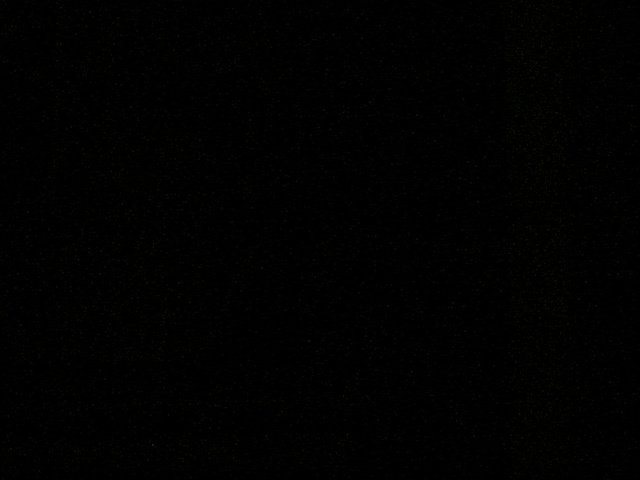
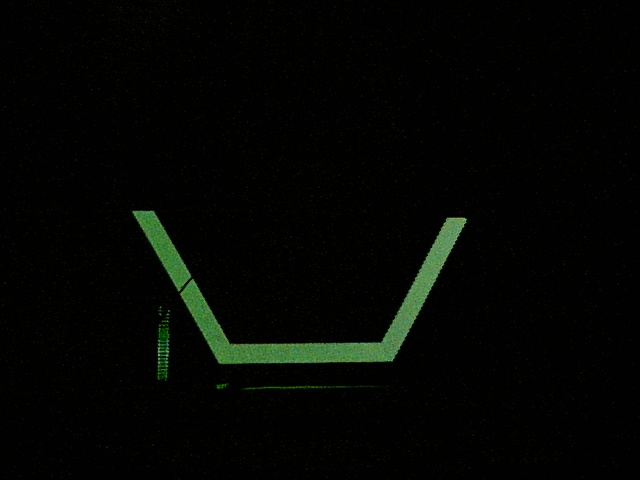
did more cleaning, began using networktables

Changed region(s): [[0.1875, 0.4375, 0.75, 0.8125]]

diff --git a/locate_target.py b/locate_target.py
@@ -4,7 +4,7 @@ import numpy as np
 import math
 from networktables import NetworkTables as nt
 
-__DEBUG__ = True
+__DEBUG__ = False
 #use red camera fov if using the ps eye
 
 def process_image(hsv_img, kernelSize, lower_color_range, upper_color_range):
@@ -52,10 +52,10 @@ def find_bounding_box(img, contour):
     expected_aspect_ratio = 17.5/39
     if (aspect_ratio <= expected_aspect_ratio*.8
         or aspect_ratio >= expected_aspect_ratio*1.2):
-        return -1, math.pi
+        return -1, -1, -1, -1
 
     if __DEBUG__:
-        contoured_image = cv2.drawContours(img, [contour], -1, (100,0,0), 2)
+        contoured_image = cv2.drawContours(img, [contour], -1, (100,0,0), 2) #not using original image
         contoured_image = cv2.rectangle(contoured_image, (x,y), (x+w, y+h), (100, 0, 0), 2)
         contoured_image = cv2.circle(contoured_image, (center_x, center_y), 3, (100, 0, 0), 2)
         
@@ -92,26 +92,6 @@ def find_distance_and_angle(img, w, h, center_x, center_y):
         
     return distance, angle_to_obj
 
-    # # Only proceed if contours were found
-    # if(contours != None):
-    #     if(len(contours) > 1):
-    #         sorted(contours, key=lambda contour: getApproximateArea(contour), reverse=True)
-    #         contour_boundaries = []
-    #         if True: # (len(contours) < 4):
-    #             contour_boundaries = [getContourBoundary(contours[0]), getContourBoundary(contours[1])]
-    #         else:
-    #             interesting_contours = contours[:4]
-    #             sorted(interesting_contours, key=lambda contour: abs(getCenterPoint(getContourBoundary(contour))[0] - frame_width/2))
-    #             contour_boundaries = [getContourBoundary(interesting_contours[0]), getContourBoundary(interesting_contours[1])]
-    #             # TODO: Add code to threshold area of contours
-    #             # print("Interesting contours type:", type(interesting_contours))
-    #         if sendPackets:
-    #             prepareForRoboRIO(contour_boundaries, objName)
-    #         else:
-    #             sendData(False, 0, 0, "")
-    #         for contour_boundary in contour_boundaries[:-1]:
-    #             displayObject(contour_boundary, objName)
-    #         return displayObject(contour_boundaries[-1], objName)
 def capture_images(device):
     webcam = cv2.VideoCapture(device)
     
@@ -126,48 +106,59 @@ def capture_images(device):
         print("failed to show frame")
     return frame
 
-#def send():
+def update_network_tables(distance, angle, table):
+    table.putNumber("distance", distance)
+    table.putNumber("angle", angle)
 
 
 
-
-if __name__ == "__main__":
+def start():
+    nt.initialize(server = "127.0.0.1")
+    target_info = nt.getTable("targetInfo")
     while True:
         print("Imagetest main is running")
         capture_images(0)
         bgr_img = cv2.imread("test_images/frame1.jpg")
-        # cv2.imshow("Hello", bgr_img)
-        # cv2.waitKey(5000) # keeps the window open for 5 seconds--long enough to load the image
+
         # Convert the frame to HSV
         hsv_img = cv2.cvtColor(bgr_img, cv2.COLOR_BGR2HSV)
-        #cv2.imshow("Win1", bgr_img)
-        #img_hsv_lower = np.array([70, 170, 30])
-        #img_hsv_upper = np.array([90, 200, 50])
-        #color = whiteboard_color = np.array([110,91,80])
-        #color = green_color = np.array([34, 177, 76])
-        #color = retro_green = np.array([])
-        #bound = 40
-        #img_hsv_lower = np.array(color - bound)
-        #img_hsv_upper = np.array(color + bound)
-        img_hsv_lower = np.array([5, 24, 5]) #NOTE: opencv hsv is 0-179, 0-255, 0-255
-        img_hsv_upper = np.array([180, 255, 225])
-        binary_image = process_image(bgr_img, (5,5), img_hsv_lower, img_hsv_upper)
-        try:
-            cv2.imshow("dilated image", img_dilate)
-            cv2.waitKey(1)
-        except:
-             print("no monitor")
-        #print (hex_dilate.shape)
-        #hex_img = np.array([])
-        #dist, angle = findObjectContours(img_dilate)
+        
+        img_bgr_lower = np.array([5, 24, 5]) 
+        img_bgr_upper = np.array([180, 255, 225])
+        
+        binary_image = process_image(bgr_img, (5,5), img_bgr_lower, img_bgr_upper)
+
+
+        
+        if __DEBUG__:
+            try:
+                cv2.imshow("processed image", binary_image)
+                cv2.waitKey(1)
+            except:
+                print("failed to display proccessed image")
+
+
 
         target_contour = find_object(binary_image)
+        
         if (target_contour is None):
             continue
 
         width, height, center_x, center_y = find_bounding_box(binary_image, target_contour)
 
+        if width == -1:
+            continue
+        
         distance, angle = find_distance_and_angle(binary_image, width, height, center_x, center_y)
+        
+        update_network_tables(distance, angle, target_info)
+
+
+
+if __name__ == "__main__":
+    
+    start()
+
         
         
         

diff --git a/test_server.py b/test_server.py
@@ -1,0 +1,12 @@
+from networktables import NetworkTables as nt
+import time
+
+nt.initialize()
+    
+target_info = nt.getTable("targetInfo")
+while True:
+    distance = target_info.getNumber("distance", -1)
+    angle = target_info.getNumber("angle", -1)
+    print (distance, angle)
+    time.sleep(1)
+    
